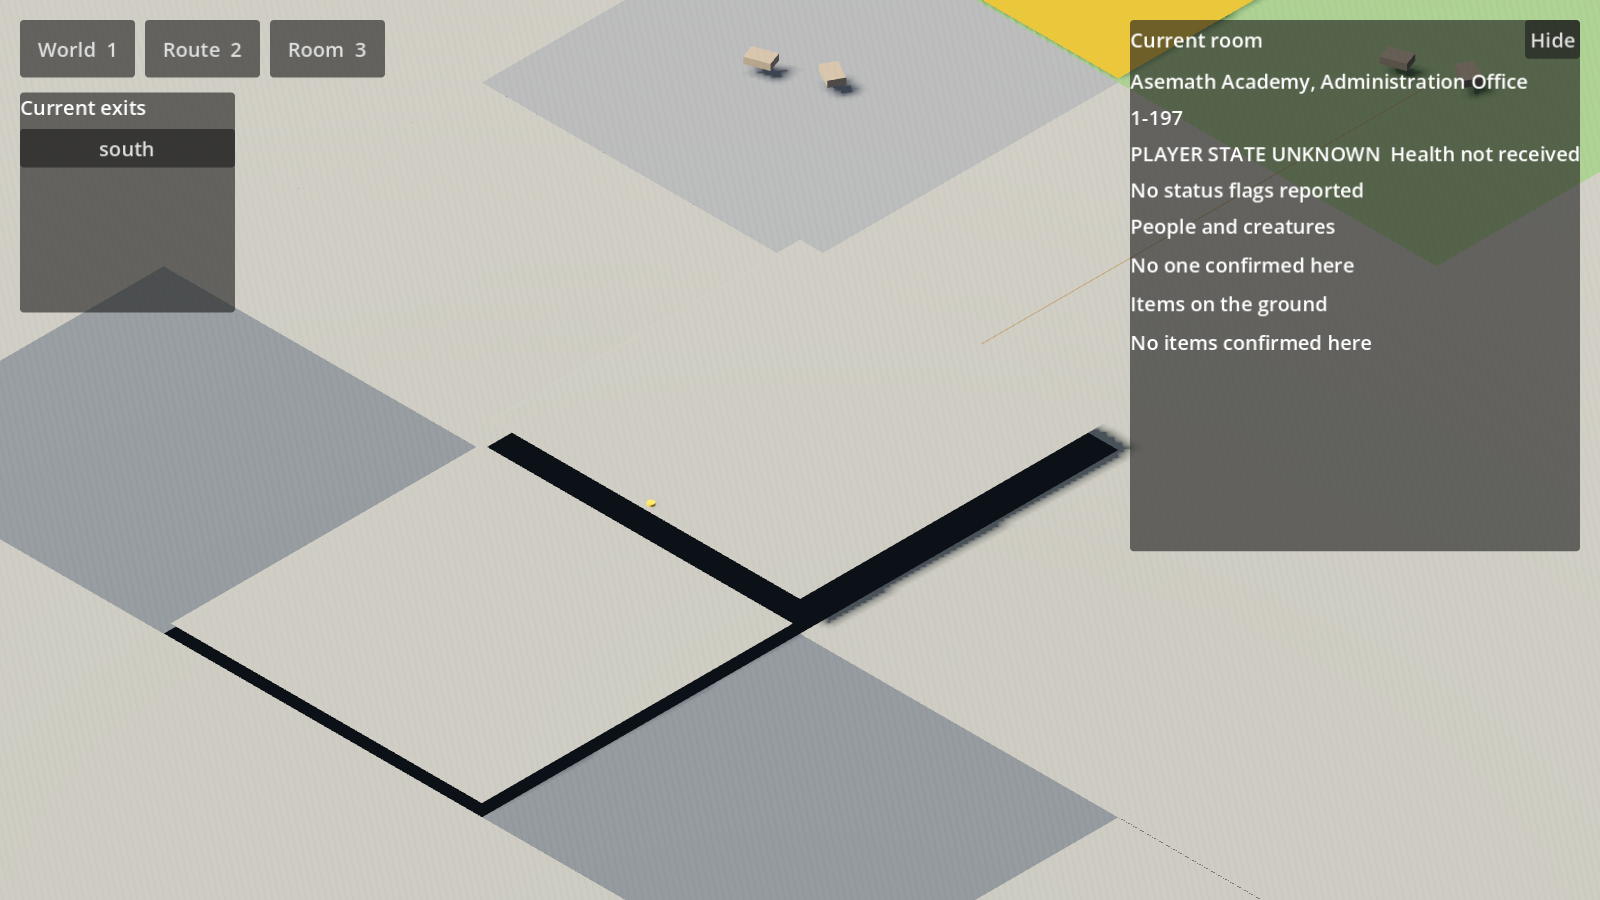
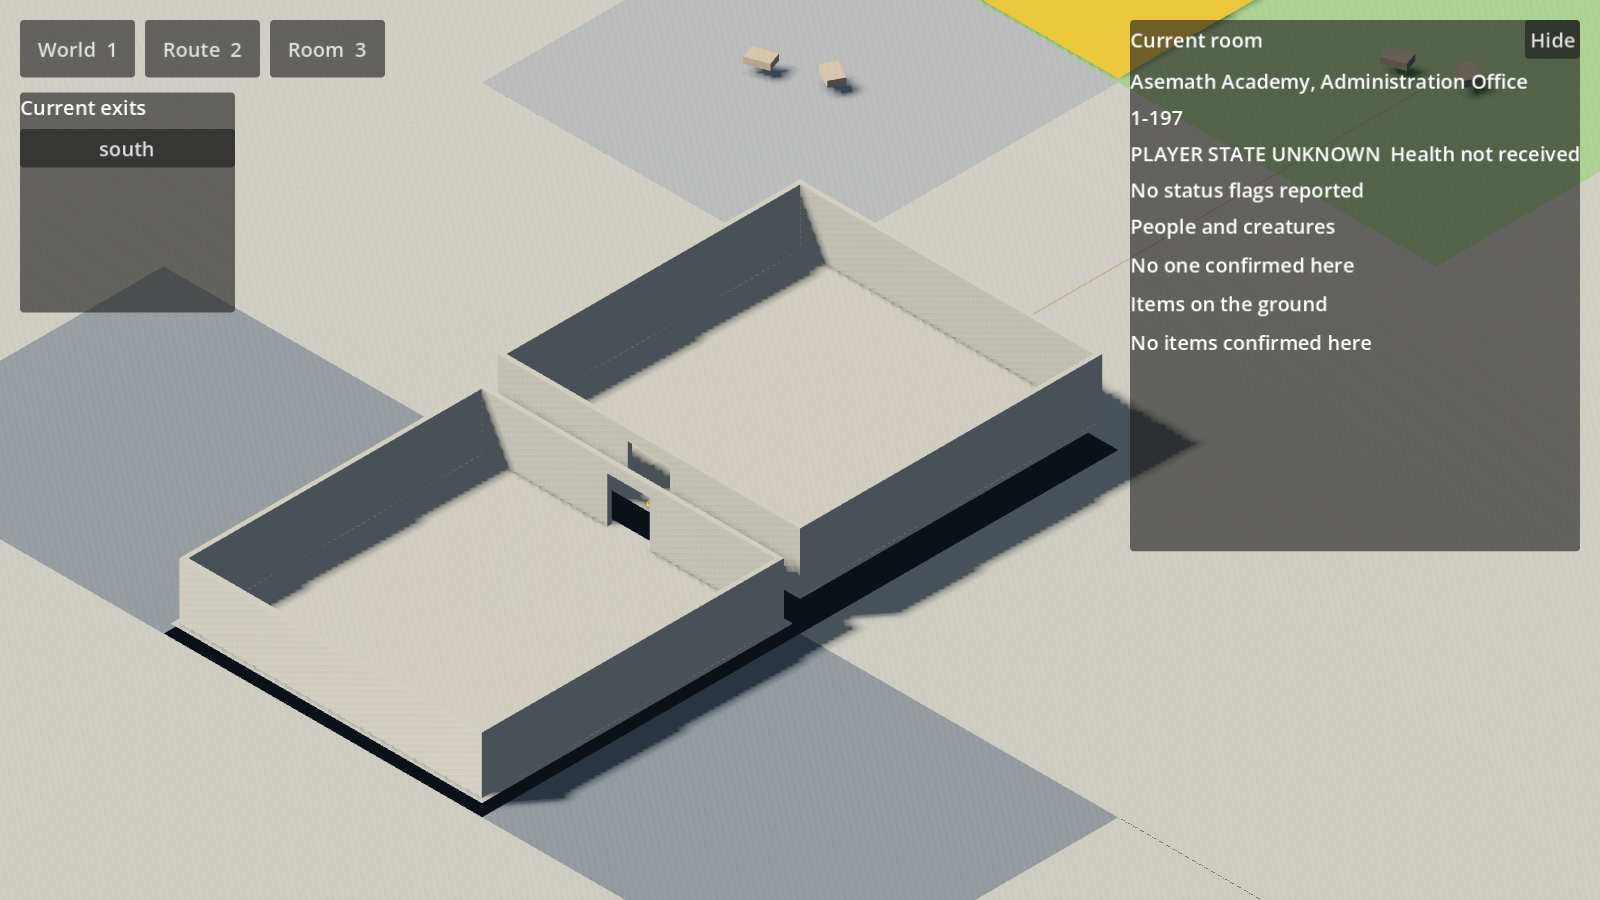
Fix invisible procedural rooms with verified graphics-backed export

diff --git a/docs/CROSSING_RUST_SHELLS.md b/docs/CROSSING_RUST_SHELLS.md
@@ -63,16 +63,25 @@ the regression now also tests addition of an exit to an exitless room.
 
 These are neutral construction prototypes, not approved finished interiors.
 Standalone shell renders were inspected in the shared project. The actual viewer
-capture at `docs/verification/crossing-native-room-1-197.png` is REJECTED: the
-room shell is not visibly rendered. Diagnostics confirmed the node was visible,
+initial capture at `docs/verification/crossing-native-room-1-197.png` was rejected: the
+room shell was not visibly rendered in the first capture. Diagnostics confirmed the node was visible,
 correctly positioned and loaded, but its automatic MultiMesh rendering AABB was
 empty. The shared importer now persists explicit transformed culling bounds and
 native reload tests prove those bounds survive. The subsequent off-screen
-capture still did not demonstrate visible shell geometry; this remaining native
-rendering discrepancy is an open integration defect, not an approved result.
-Do not expand shell coverage or call this production-ready until it is resolved.
-The capture helper logs actual shell transforms and bounds for that investigation.
+capture still did not demonstrate visible shell geometry. Further export inspection
+found that the dummy headless backend omitted the MultiMesh instance buffer while
+preserving its instance count. The build now exports using a brief graphics-backed,
+off-screen process, validates buffer length and reloads the saved package to compare
+buffers and bounds. The updated capture at the same path visibly shows both room
+shells and their door openings. This resolves the missing-render defect, not the
+art-quality gate: the scene remains bare construction geometry with unfinished
+materials, strong shadow artifacts and no room-specific furnishings.
+The capture helper logs actual shell transforms and bounds for future regressions.
 
 Full Crossing visual review, dense-scene performance, 8 GB VRAM measurement and
 Unity execution remain unverified. Godot testing is headless; captures remain off-screen,
 low-priority and frame-rate-limited to respect the user's desktop.
+
+Current research and implemented/proposed method distinctions are maintained in
+the shared repository's [Scene Forge architecture and research ledger](https://github.com/dancockrell/shared-game-environment-library/blob/art/catalog-foundation/docs/PROCEDURAL_SCENE_BUILDER.md).
+Do not duplicate that ledger or imply its proposed search solver is implemented.
